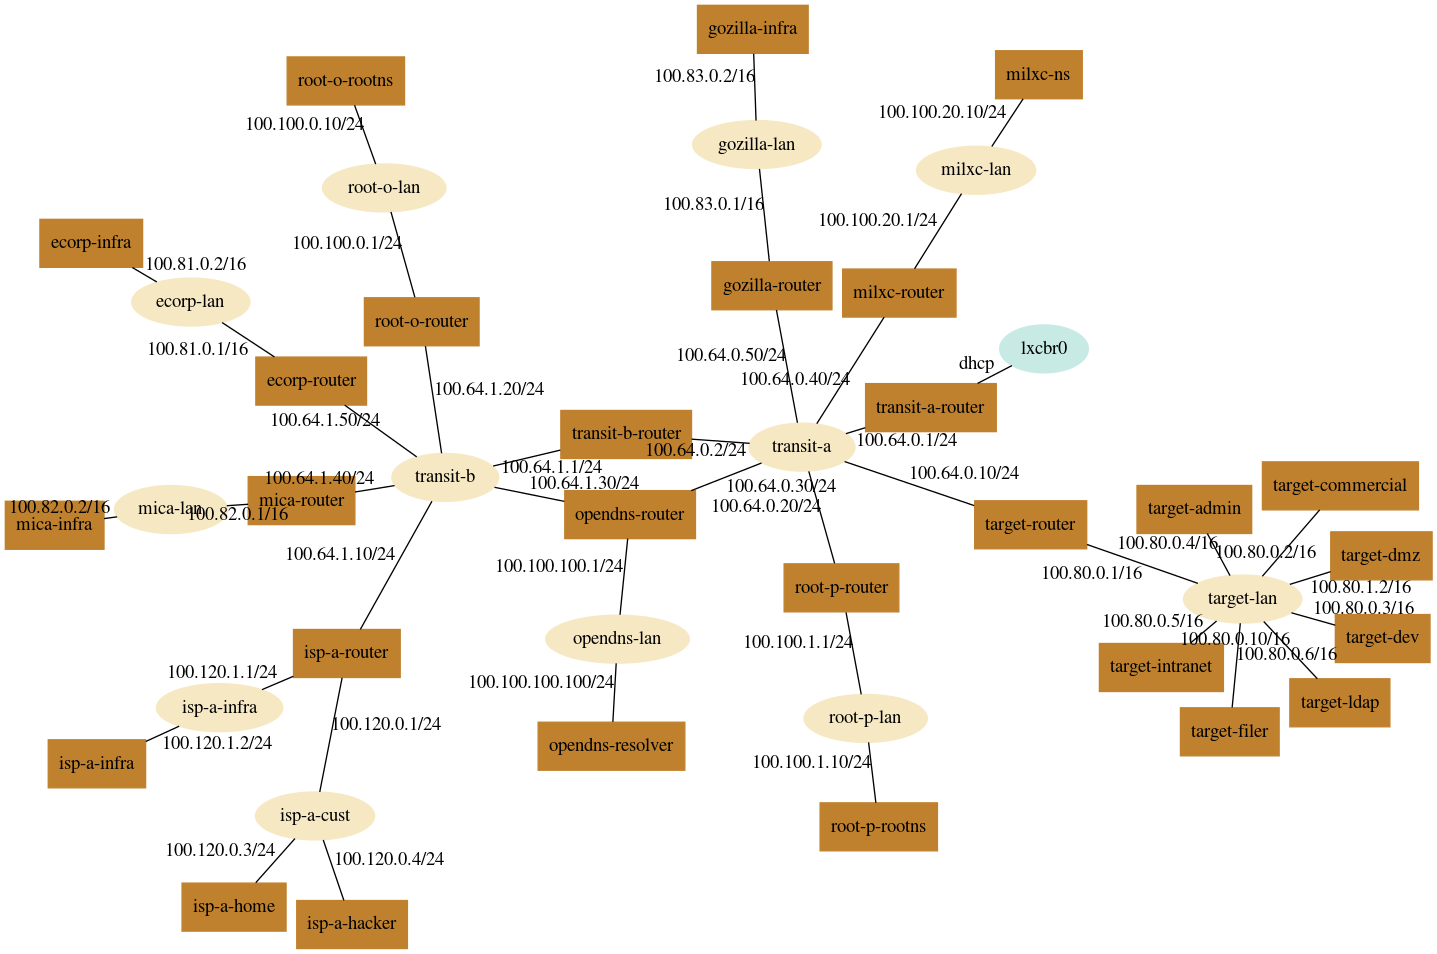
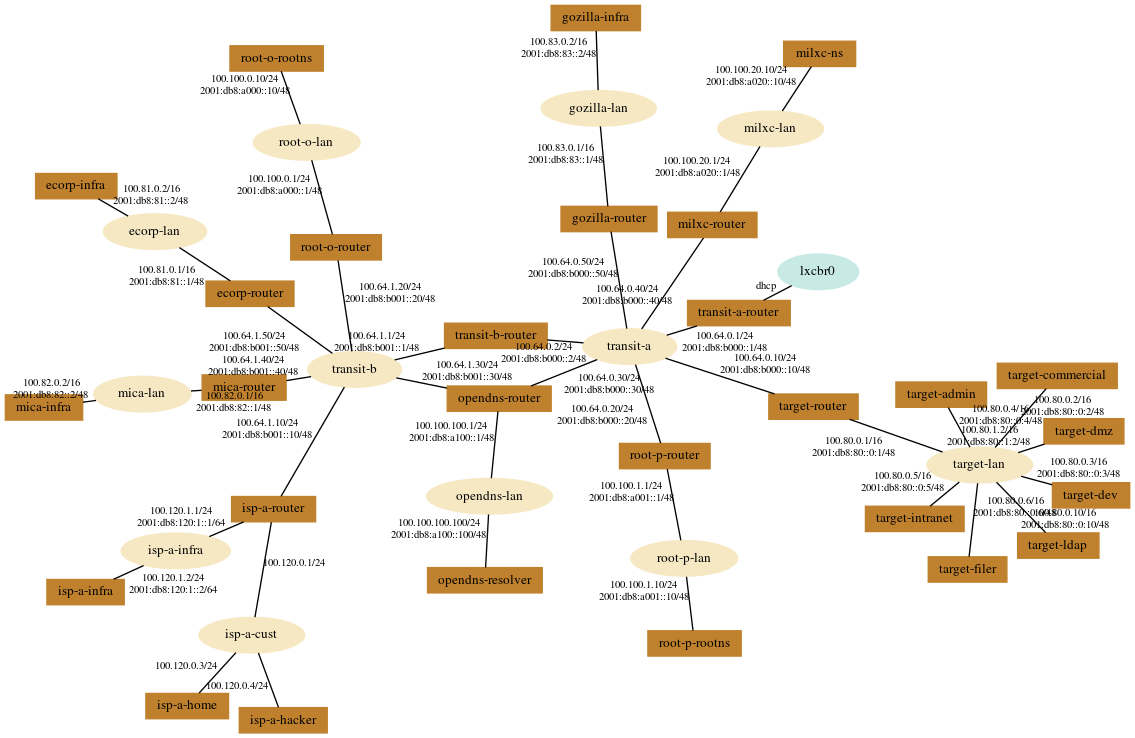
ipv6 mostly deployed

diff --git a/mi-lxc.py b/mi-lxc.py
@@ -364,12 +364,12 @@ def printgraph():
     G2.node_attr['style'] = "filled"
 
     for host in hosts:
-        G2.add_node("c"+host.name, colorscheme='brbg9', color='2', shape='box', label=host.name)
+        G2.add_node("c"+host.name, colorscheme='brbg9', color='2', shape='box', label=host.name, fontsize=10, height=0.2)
 
     for bridge in bridges:
-        G2.add_node("b"+bridge, colorscheme='brbg9', color='4', label=bridge[len(prefixbr):])
+        G2.add_node("b"+bridge, colorscheme='brbg9', color='4', label=bridge[len(prefixbr):], fontsize=10, height=0.1)
 
-    G2.add_node("b"+lxcbr, colorscheme='brbg9', color='6', label=lxcbr)
+    G2.add_node("b"+lxcbr, colorscheme='brbg9', color='6', label=lxcbr, fontsize=10, height=0.2)
     # 69A2B0, A1C084, FFCAB1, 659157, E05263
 
     for host in hosts:
@@ -385,7 +385,7 @@ def printgraph():
                 label += nic[1]['ipv4']
             if 'ipv6' in nic[1]:
                 label += "\n" + nic[1]['ipv6']
-            G2.add_edge("c"+host.name,"b"+nic[0], label = label, fontsize = 10)  # with IPs
+            G2.add_edge("c"+host.name,"b"+nic[0], label = label, fontsize = 8)  # with IPs
 
     #G2.write("test.dot")
     #G2.draw("test.png", prog="neato")
@@ -469,6 +469,9 @@ if __name__ == '__main__':
     elif (command == "destroy"):
         if len(sys.argv) > 2:
             host = getHost(sys.argv[2])
+            if host is None:
+                print("Unexisting container " + sys.argv[2] + ", valid containers are " + listHosts(), file=sys.stderr)
+                exit(1)
             host.destroy()
         else:
             destroyInfra()
